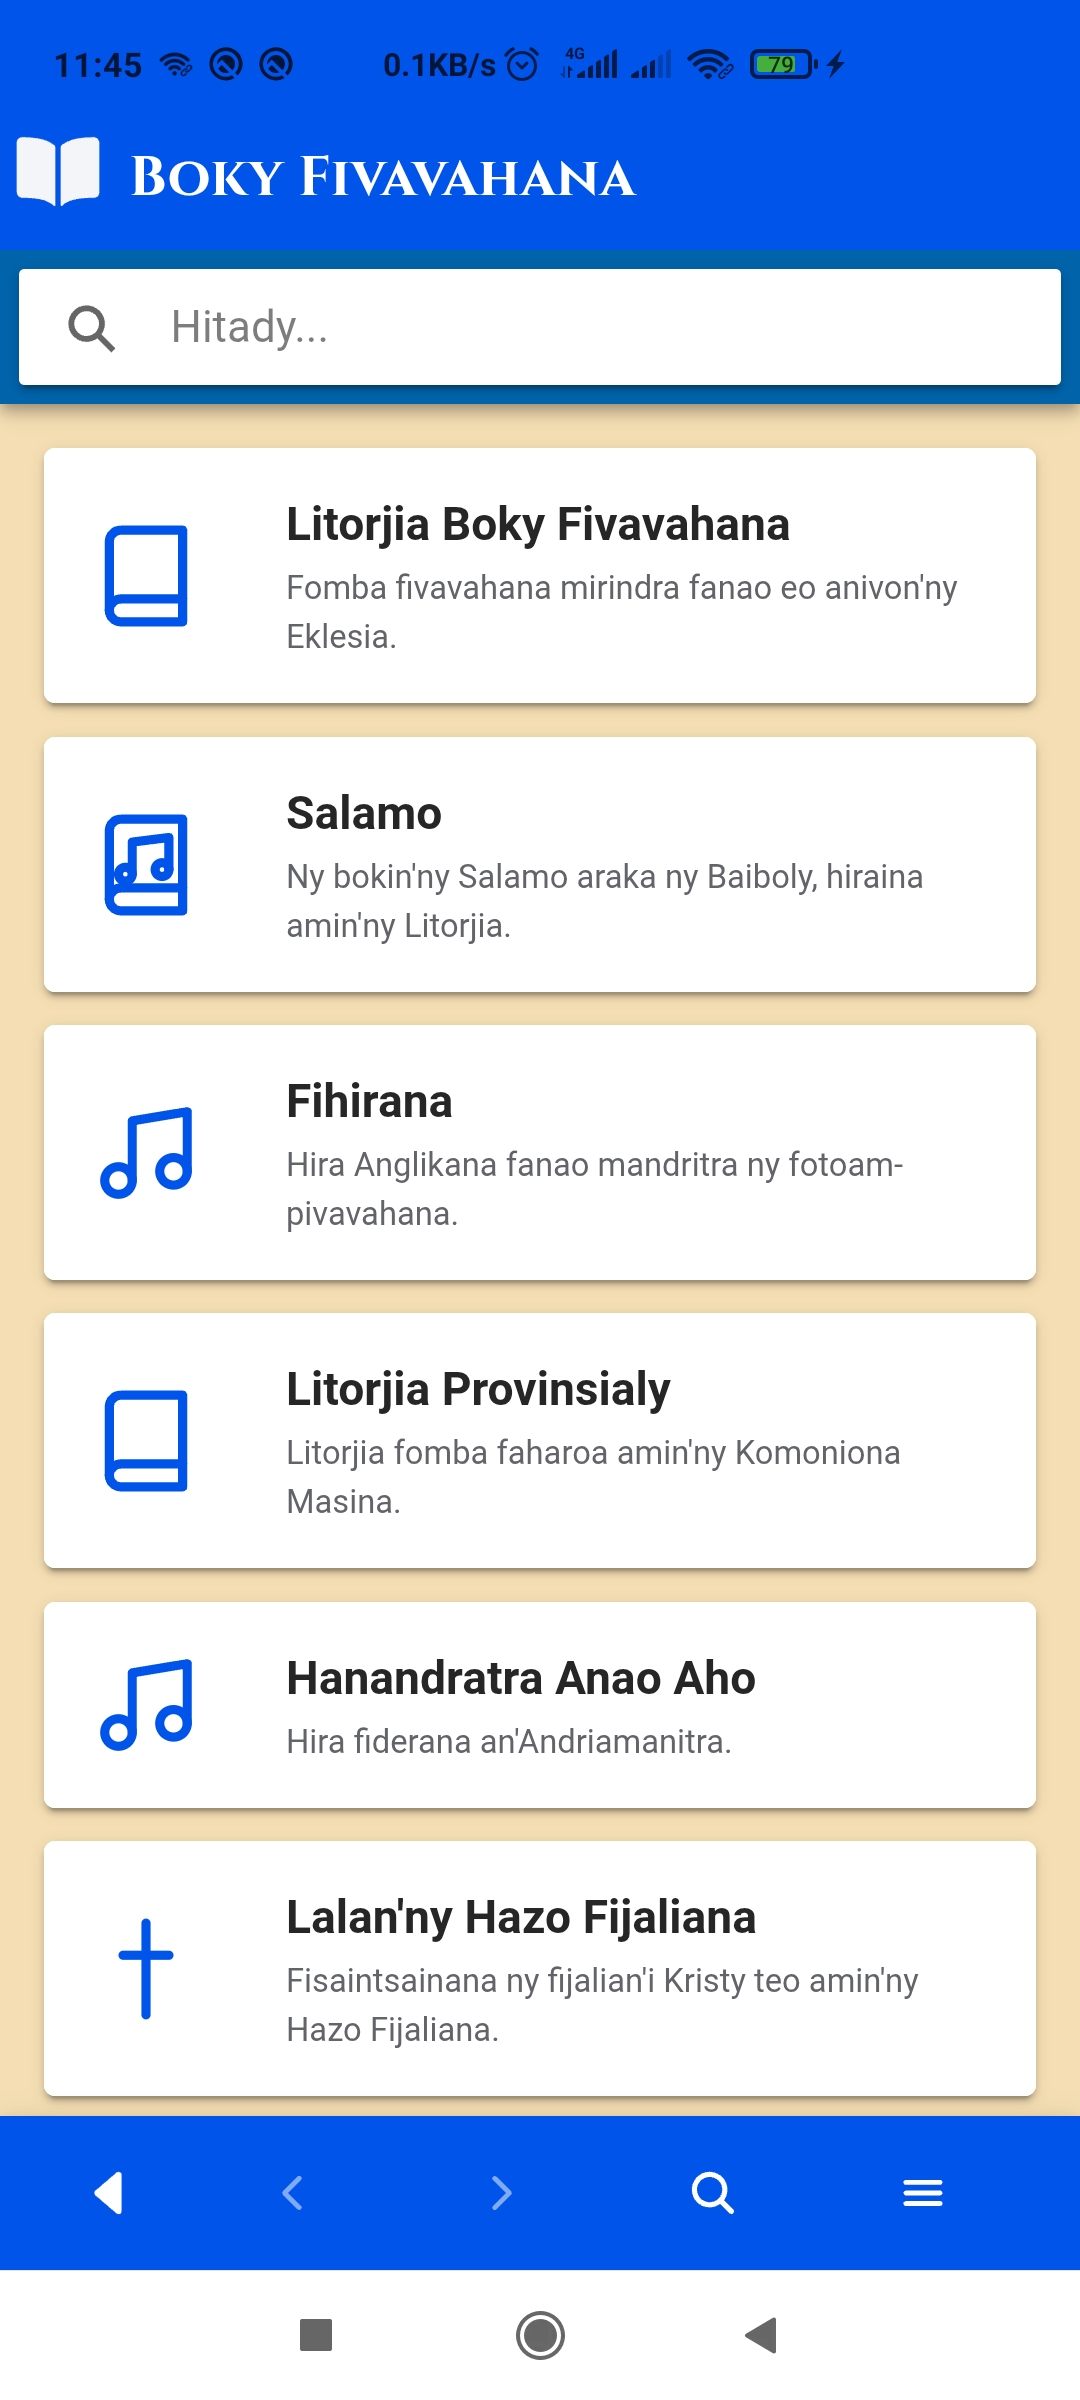
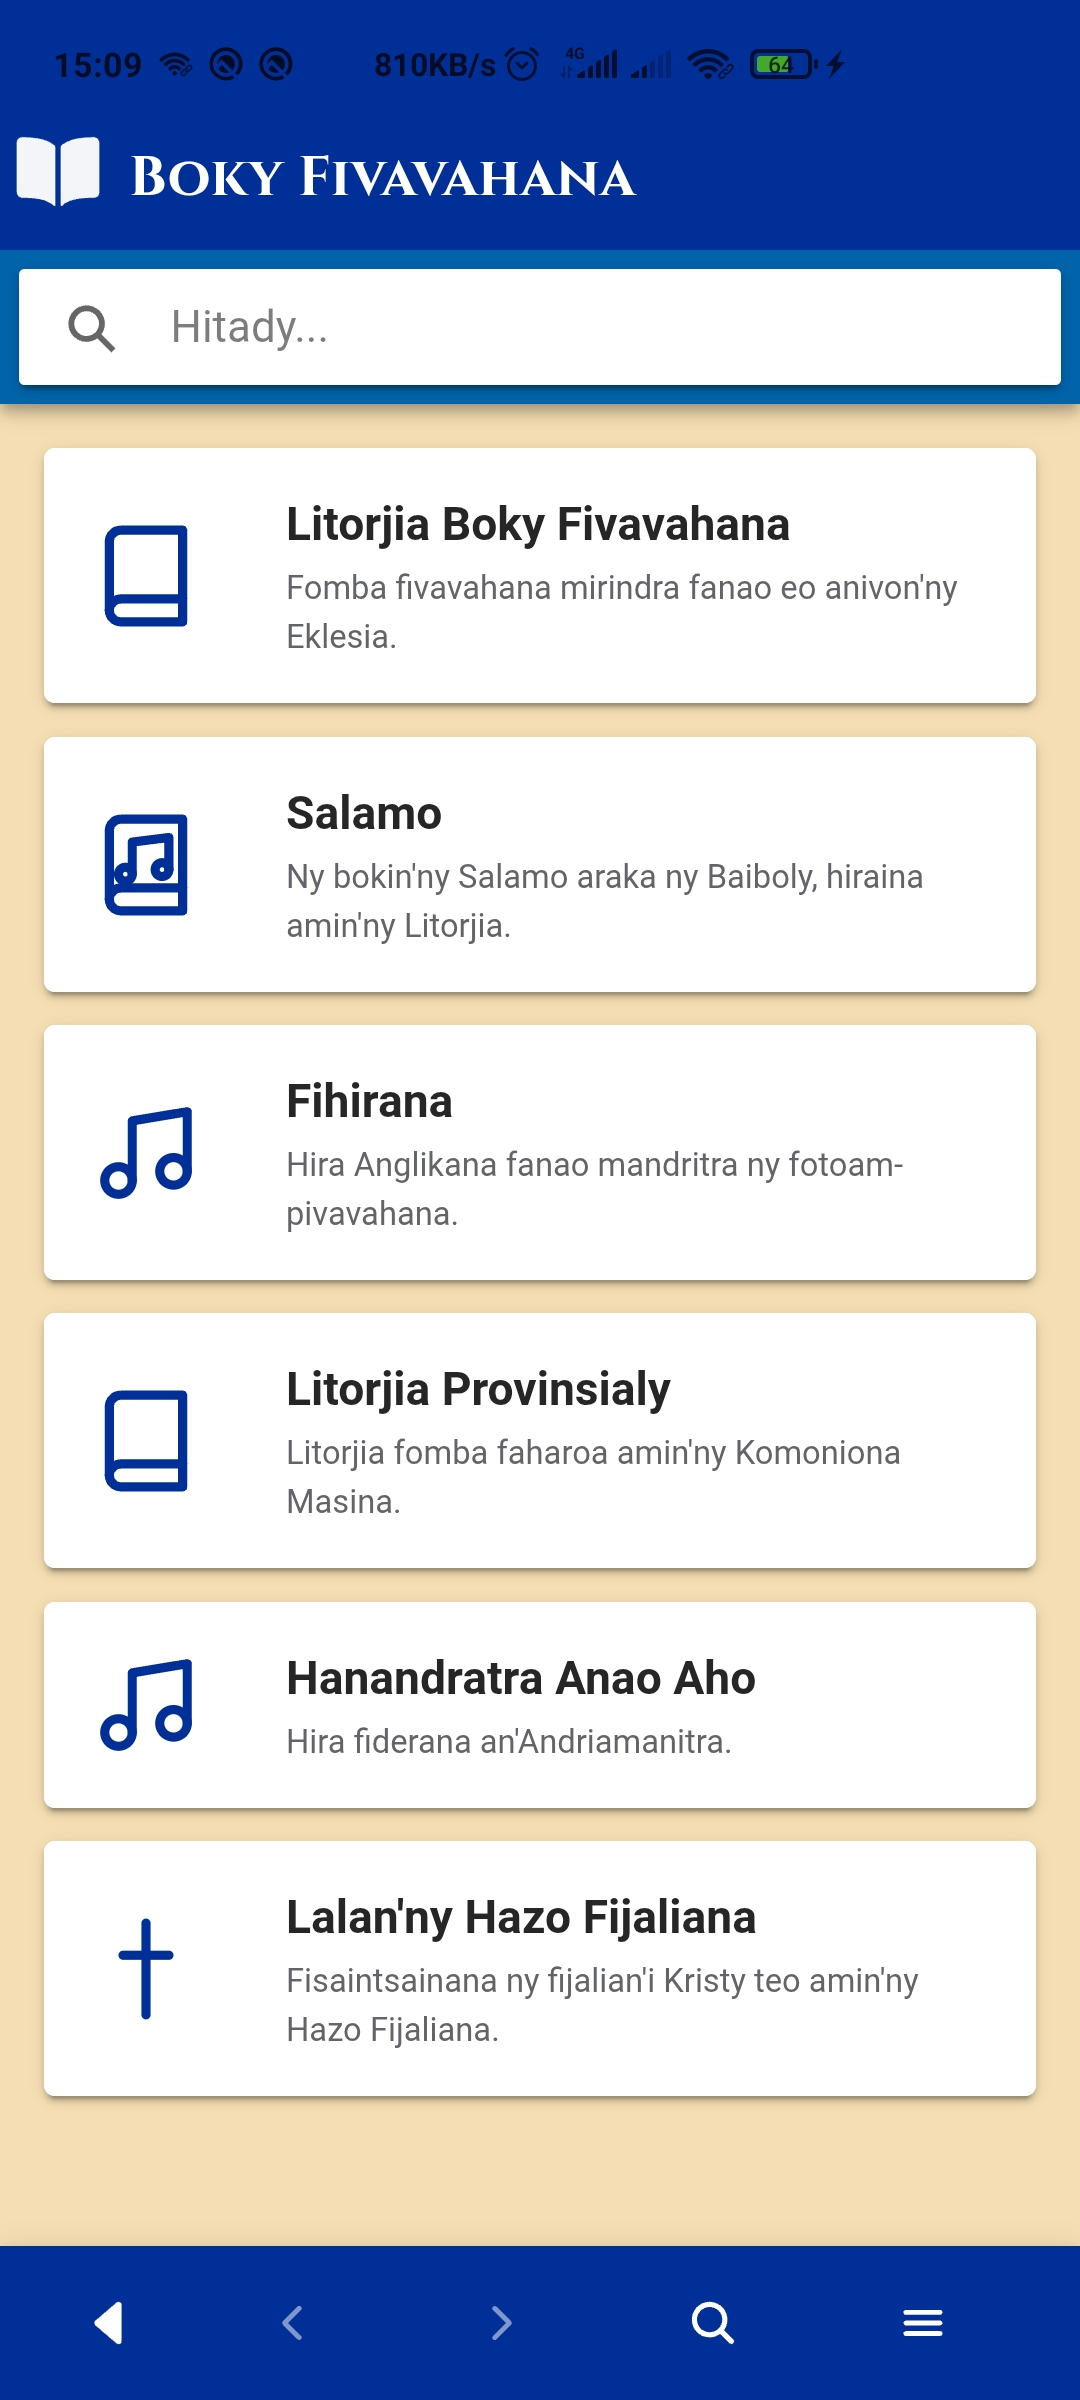
Changed the primary color to app color

diff --git a/src/theme/variables.css b/src/theme/variables.css
@@ -5,8 +5,7 @@ http://ionicframework.com/docs/theming/ */
   font-family: "Cinzel-Regular";
   font-style: normal;
   font-weight: normal;
-  src:
-    local("Cinzel-Regular"),
+  src: local("Cinzel-Regular"),
     url("../assets/Cinzel-Regular.woff") format("woff");
 }
 
@@ -14,26 +13,21 @@ http://ionicframework.com/docs/theming/ */
   font-family: "Cinzel-Bold";
   font-style: normal;
   font-weight: normal;
-  src:
-    local("Cinzel-Bold"),
-    url("../assets/Cinzel-Bold.woff") format("woff");
+  src: local("Cinzel-Bold"), url("../assets/Cinzel-Bold.woff") format("woff");
 }
 
 @font-face {
   font-family: "Charis SIL";
   font-style: normal;
   font-weight: normal;
-  src:
-    local("Charis SIL"),
-    url("../assets/CharisSILR.woff") format("woff");
+  src: local("Charis SIL"), url("../assets/CharisSILR.woff") format("woff");
 }
 
 @font-face {
   font-family: "Charis SIL Italic";
   font-style: normal;
   font-weight: normal;
-  src:
-    local("Charis SIL Italic"),
+  src: local("Charis SIL Italic"),
     url("../assets/CharisSILI.woff") format("woff");
 }
 
@@ -41,28 +35,27 @@ http://ionicframework.com/docs/theming/ */
   font-family: "Charis SIL Bold";
   font-style: normal;
   font-weight: normal;
-  src:
-    local("Charis SIL Bold"),
-    url("../assets/CharisSILB.woff") format("woff");
+  src: local("Charis SIL Bold"), url("../assets/CharisSILB.woff") format("woff");
 }
 
 @font-face {
   font-family: "Charis SIL Bold Italic";
   font-style: normal;
   font-weight: normal;
-  src:
-    local("Charis SIL Bold Italic"),
+  src: local("Charis SIL Bold Italic"),
     url("../assets/CharisSILBI.woff") format("woff");
 }
 @font-face {
   font-family: "Tahoma";
   font-style: normal;
   font-weight: normal;
-  src:
-    local("Tahoma"),
-    url("../assets/Tahoma.woff") format("woff");
+  src: local("Tahoma"), url("../assets/Tahoma.woff") format("woff");
 }
 
+:root {
+  --ion-color-primary: #002f98;
+  --ion-color-secondaryy: #002f98;
+}
 
 ion-content {
   --background: wheat;
